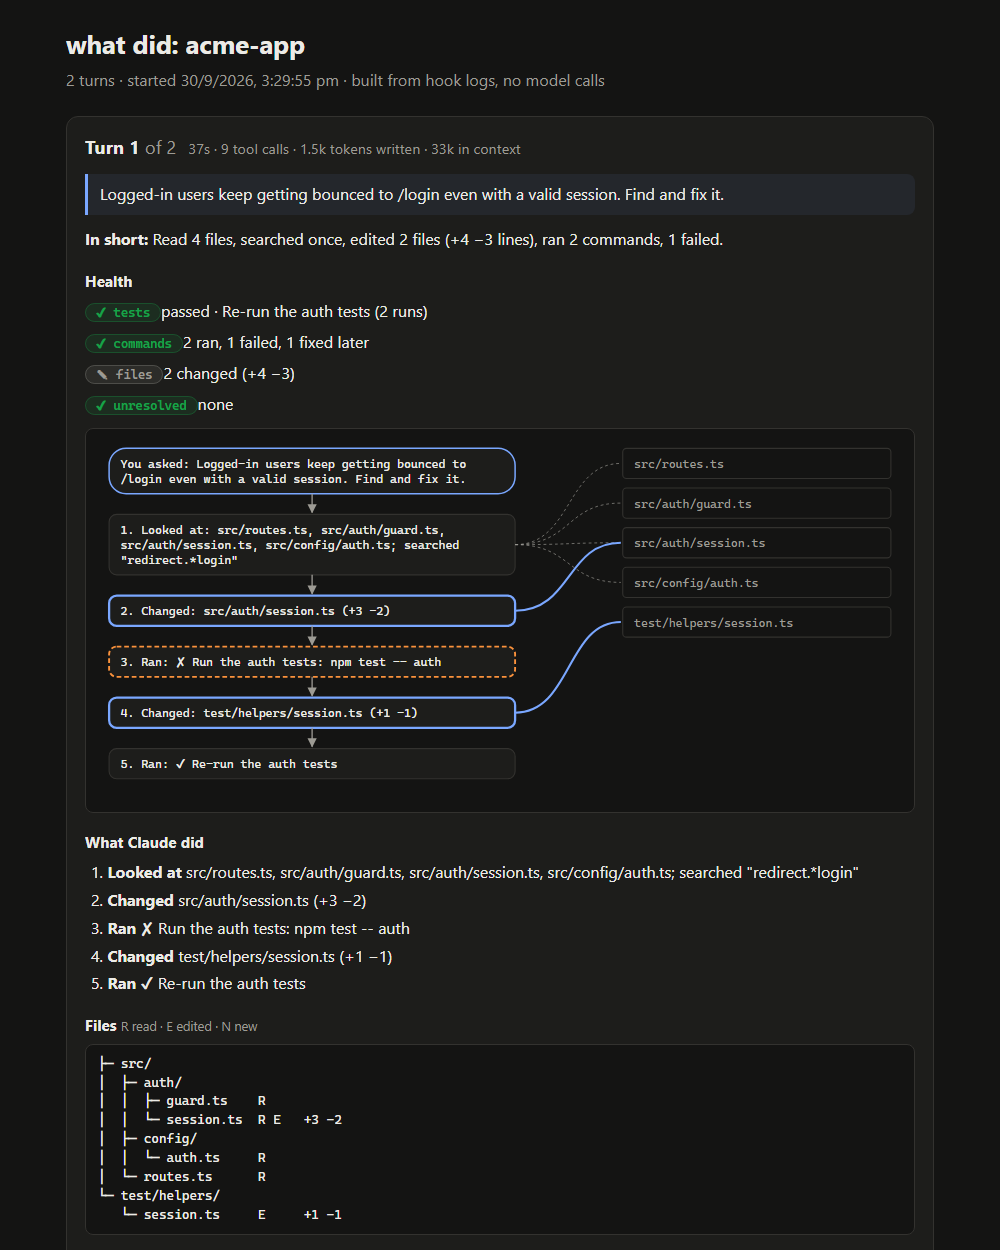
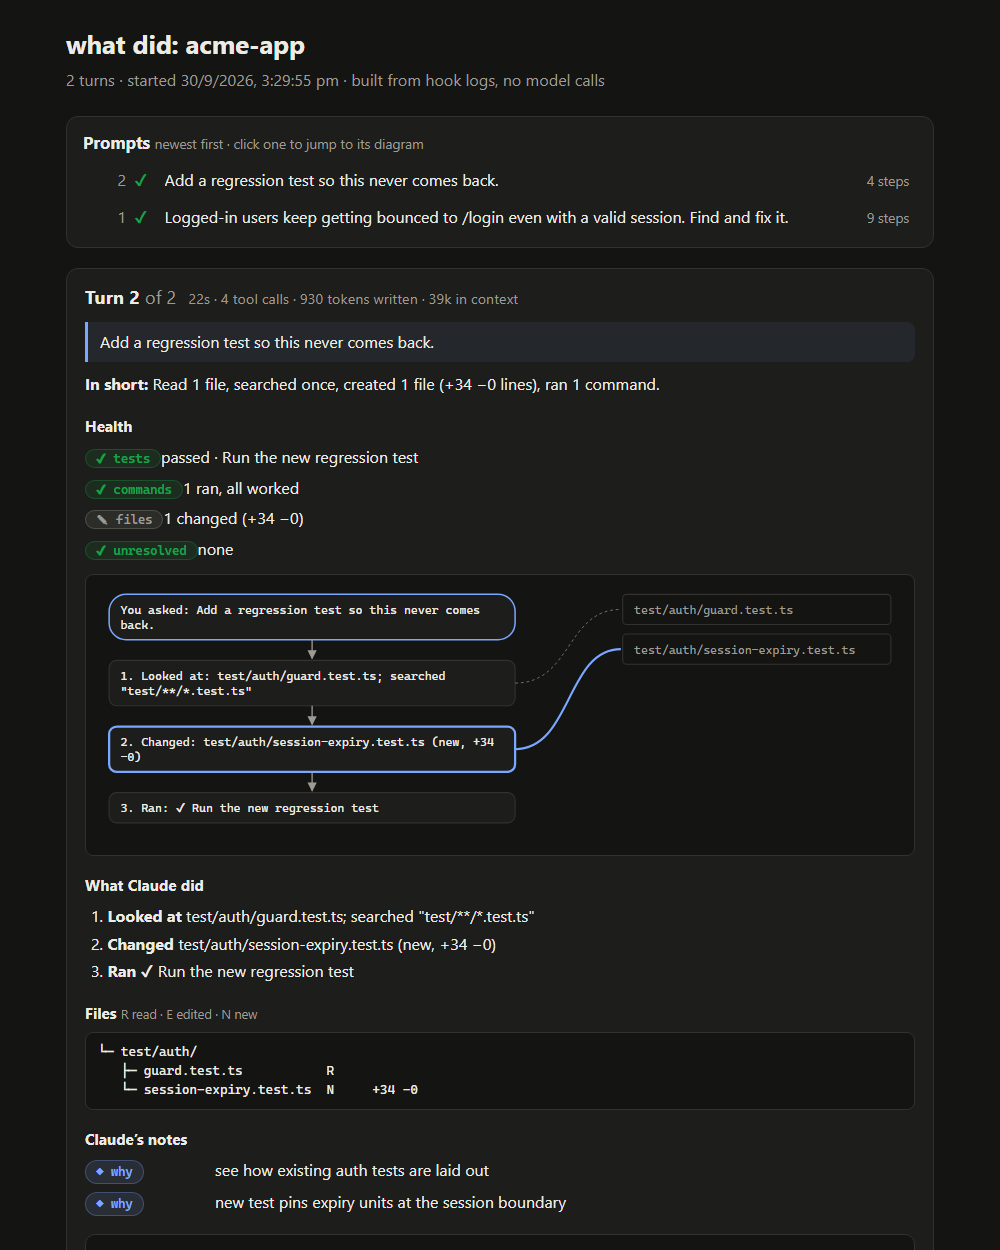
v0.1.6: HTML report prompt list, folding turns, full box text
- Prompt list at the top, newest first, jumps to each turn's diagram
- Newest three turns open; older ones fold until clicked (CSS :target)
- Flowchart boxes wrap instead of cutting text; full text on hover
- Health counts every edited or created file, matching "In short"

diff --git a/README.md b/README.md
@@ -137,7 +137,7 @@ In Windows Terminal, tmux, WezTerm and iTerm2, `wd` opens in a full-width pane b
 <summary><b>More: live statusline, HTML report, terminal command, settings</b></summary>
 
 - **Live statusline:** `/whatdid:setup` adds a line at the bottom of the terminal showing Claude's latest note as it works (`◇ found expiresAt is seconds… · step 6 · editing session.ts`). If you already have a statusline, such as GSD's, it stays and shows first.
-- **HTML report:** `wd html` writes one self-contained page: health, a flowchart of every step and file, the changed lines, the file tree and every note as a coloured badge. It runs no JavaScript and loads nothing from the network, so it works offline.
+- **HTML report:** `wd html` writes one self-contained page. At the top, a list of every prompt, newest first, jumps straight to that turn. The three newest turns are open; click any older one to open it. Each turn has its health, a flowchart of every step and file (boxes show the full text, and hovering shows it too), the changed lines, the file tree and every note as a coloured badge. It runs no JavaScript and loads nothing from the network, so it works offline.
 
   <img src="https://raw.githubusercontent.com/Vishy204/whatdid/main/assets/report.png" alt="what did HTML report with a flowchart of the steps" width="640">
 

diff --git a/CHANGELOG.md b/CHANGELOG.md
@@ -2,6 +2,13 @@
 
 > The project was renamed from glassbox to **what did** (package and command: `whatdid`) before its first release. "Glassbox" is an existing session-replay company and is used by 600+ GitHub repos. The trigger is now `wd`.
 
+## 0.1.6 — 2026-10-01
+
+### Changed
+- **HTML report navigation.** A list of every prompt, newest first, sits at the top and jumps straight to that turn's diagram. Turns are shown newest first; the three newest are open and older ones fold to their prompt until you click them. No JavaScript: folding uses CSS `:target`.
+- **Flowchart boxes show their full text.** Long text and paths wrap instead of being cut, the full text is also a hover tooltip, and failed commands show in full.
+- Health counts every file Claude edited or created, so it agrees with "In short".
+
 ## 0.1.5 — 2026-10-01
 
 ### Added

diff --git a/RELEASING.md b/RELEASING.md
@@ -21,12 +21,12 @@ Push to `main` and wait for CI to pass on Linux, macOS and Windows. The permissi
 ## 3. Publish
 
 ```bash
-git tag v0.1.5 && git push origin v0.1.5
-gh release create v0.1.5 --title "what did 0.1.5" --notes-file <(sed -n '/^## 0.1.5/,/^## 0.1.4/p' CHANGELOG.md | sed '$d')
+git tag v0.1.6 && git push origin v0.1.6
+gh release create v0.1.6 --title "what did 0.1.6" --notes-file <(sed -n '/^## 0.1.6/,/^## 0.1.5/p' CHANGELOG.md | sed '$d')
 npm publish                   # runs the tests first (prepublishOnly)
 ```
 
-Use the new version number in place of 0.1.5.
+Use the new version number in place of 0.1.6.
 
 ## 4. Verify from a clean setup
 
